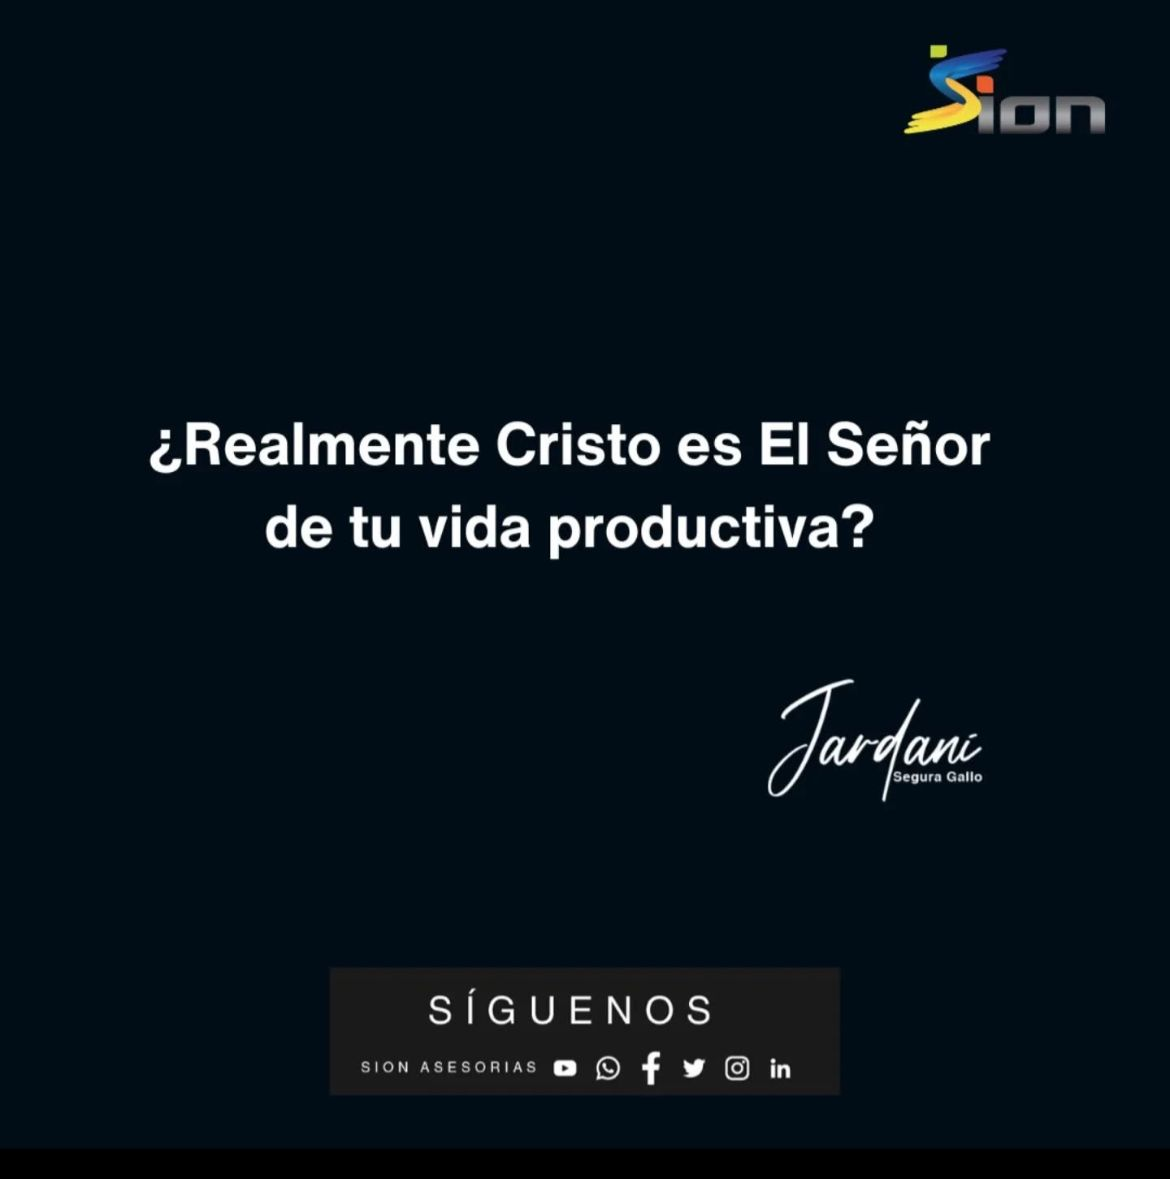
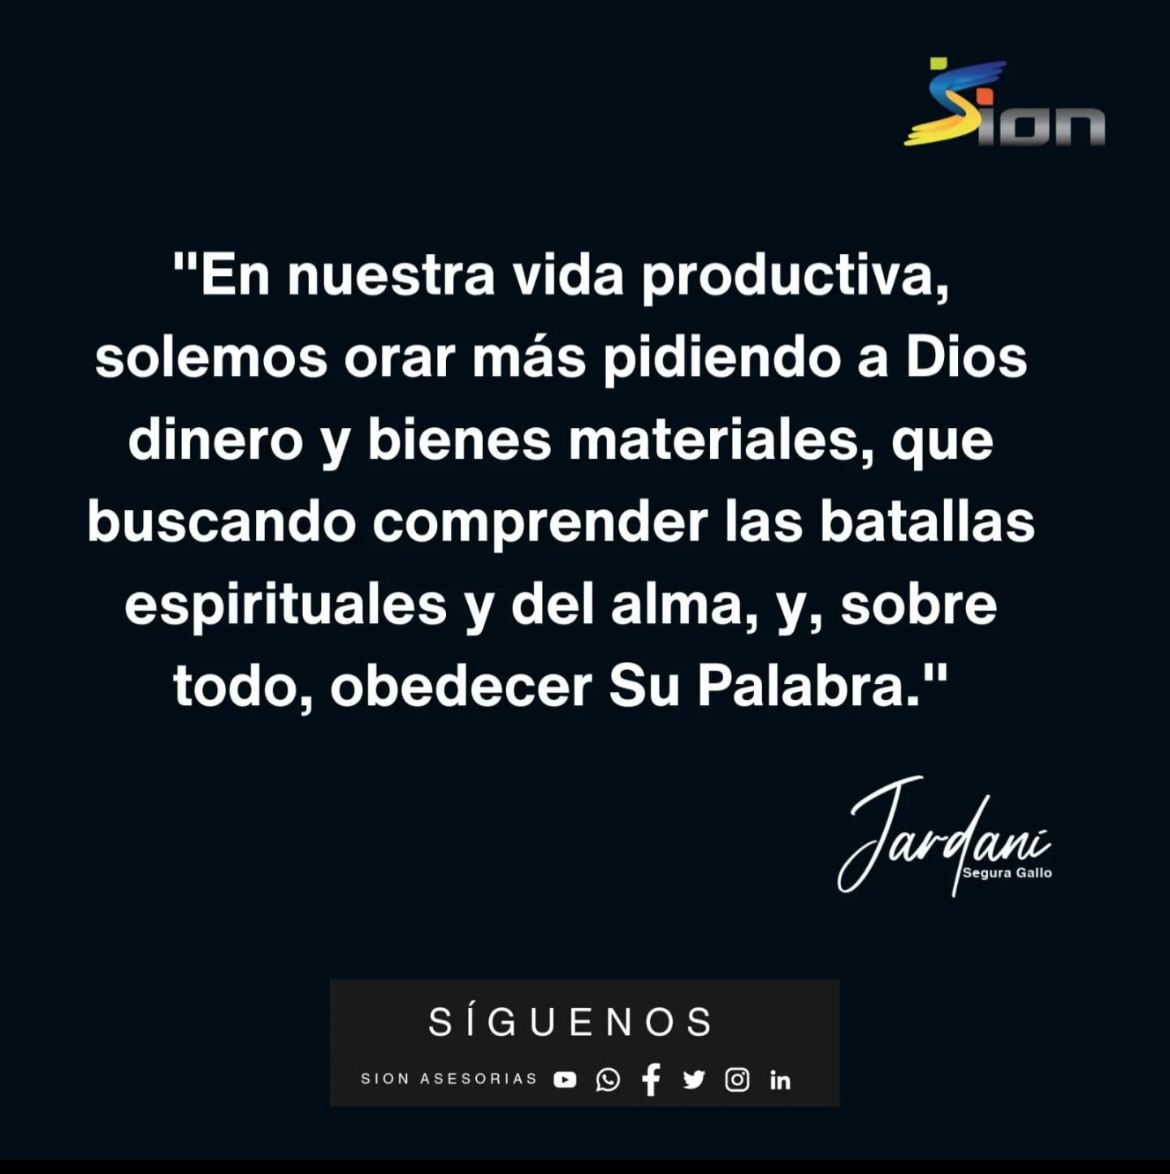
fix

diff --git a/index.html b/index.html
@@ -5,11 +5,11 @@
   <meta name="viewport" content="width=device-width, initial-scale=1.0"/>
   <title>SION - Bienvenida</title>
   <link rel="stylesheet" href="index.css" />
-  
-  
+ 
+ 
 </head>
 <body class="bienvenida">
-
+ 
   <!-- Barra de navegación -->
   <div class="nav-container">
     <nav class="nav-links">
@@ -20,19 +20,19 @@
       </div>
     </nav>
   </div>
-
+ 
   <!-- Bienvenida -->
   <header class="welcome-header">
     <h1>Bienvenido a SION Asesorías</h1>
     <p>Transformando mentes, edificando en principios del Reino</p>
   </header>
-
+ 
   <!-- Galería de imágenes -->
   <div class="image-gallery">
-    <img src="img/Wha.jpeg" alt="Imagen 1">
+    <img src="img/What.jpeg" alt="Imagen 1">
     <img src="img/Whats.jpeg" alt="Imagen 2">
     <img src="img/WhatsAp.jpeg" alt="Imagen 3">
   </div>
-
+ 
 </body>
 </html>
